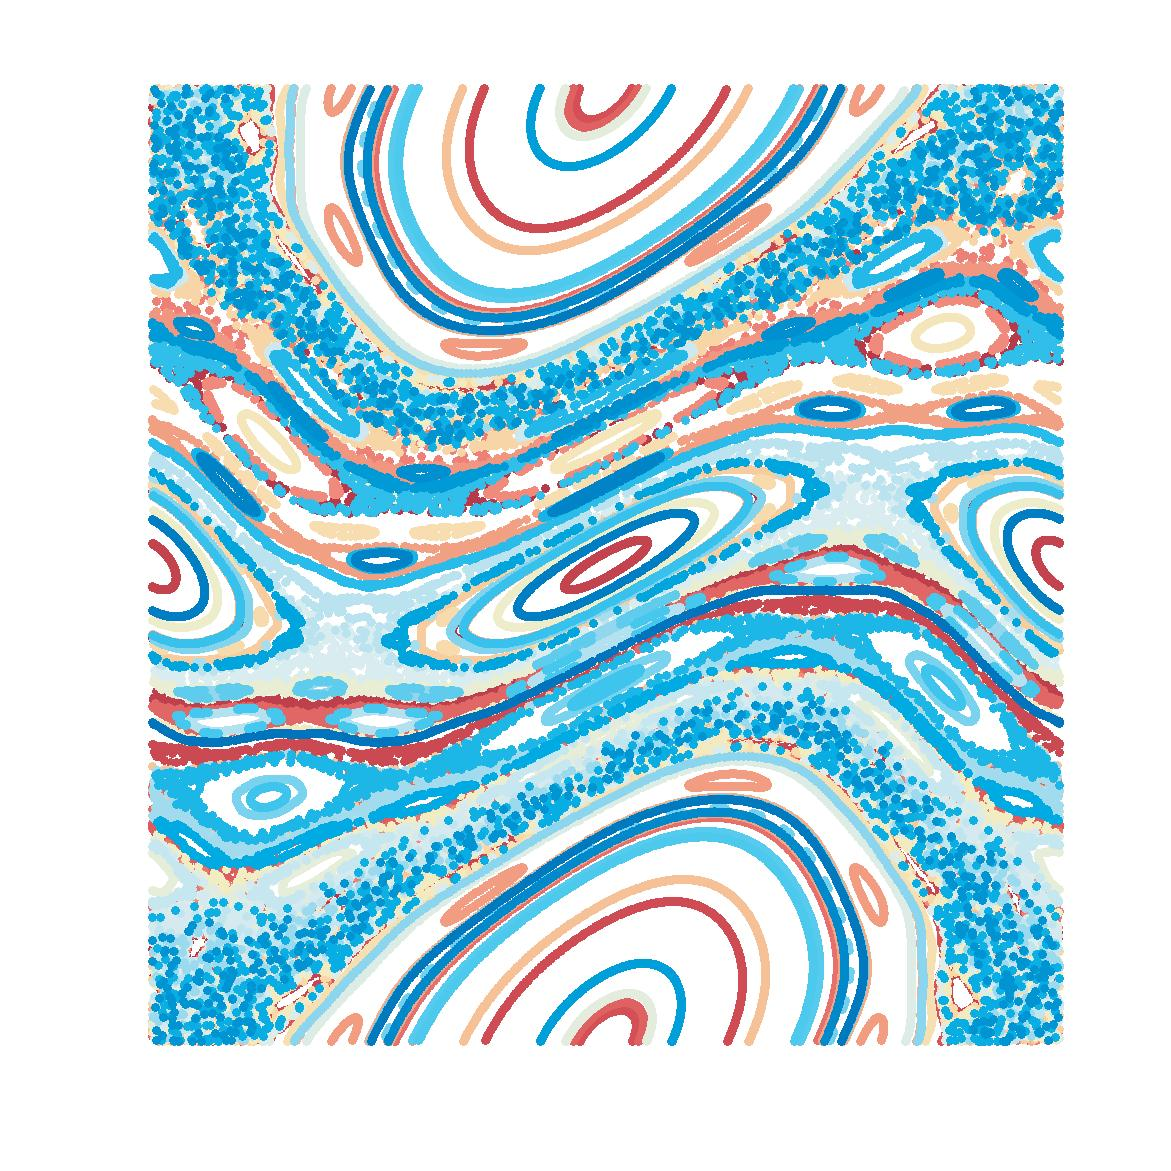
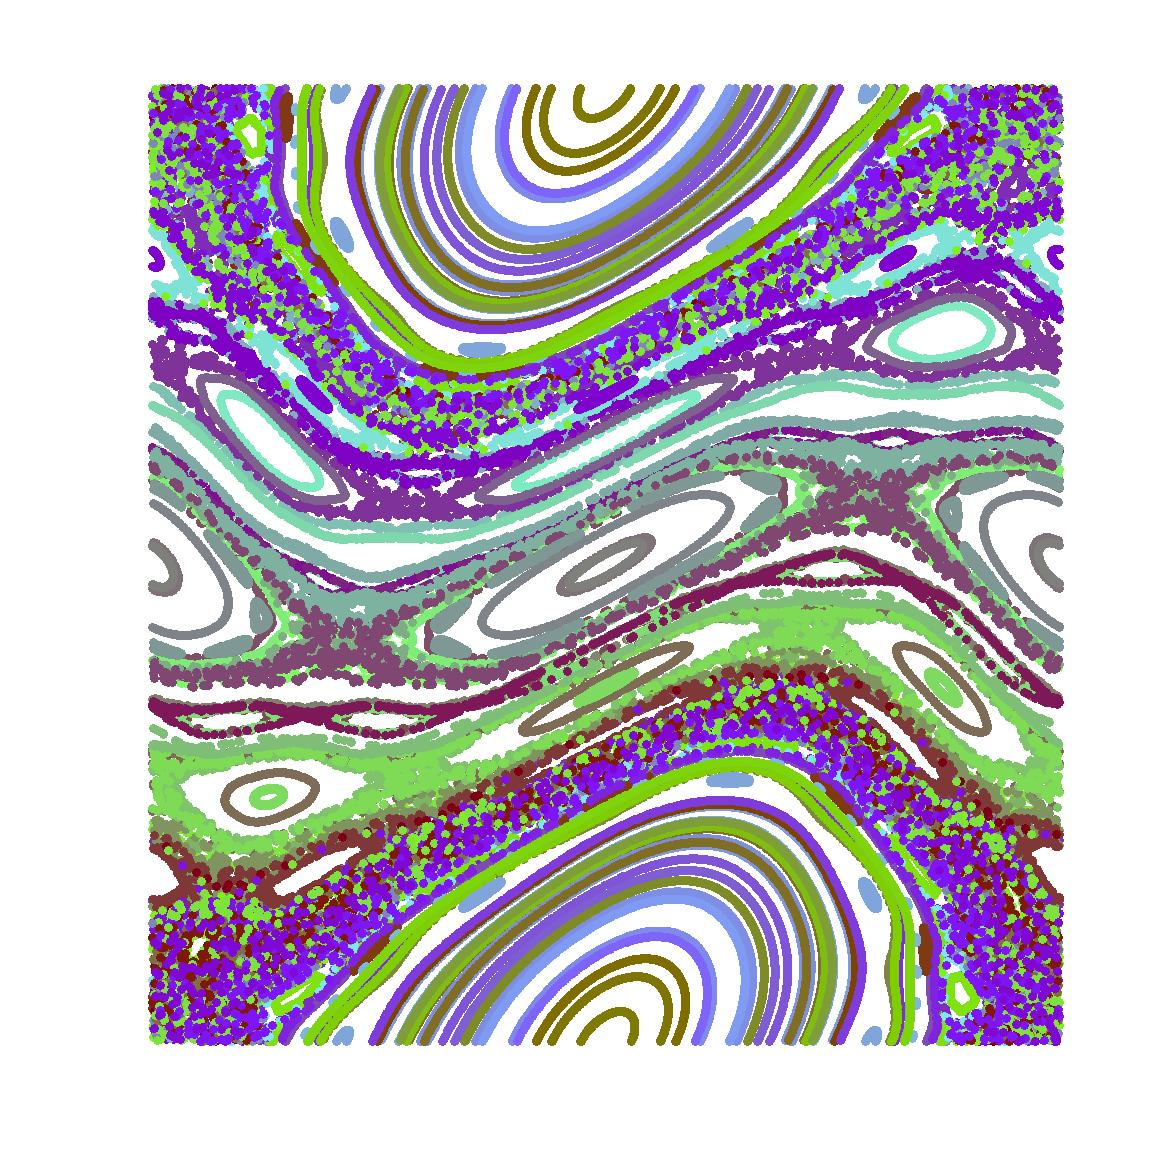
Colors now say something

diff --git a/Practica/Assignment 1/code/assignment_b_fancy_diff_k.m b/Practica/Assignment 1/code/assignment_b_fancy_diff_k.m
@@ -5,7 +5,7 @@ num_iter = 1000;
 
 ks = [0, 0.2, 0.4, 0.8, 1, 2, 3, 4];
 
-colors = lbmap(num_runs, 'RedBlue');
+% colors = lbmap(num_runs, 'RedBlue');
 
 for k = ks
     figure('name', sprintf('k = %d', k));
@@ -15,7 +15,7 @@ for k = ks
         p_0 = rand(1,1);
         
         map = chirikov_map(k, x_0, p_0, num_iter);
-        scatter(map(:, 1), map(:, 2), 5, 'filled', 'MarkerFaceColor', colors(run, :));
+        scatter(map(:, 1), map(:, 2), 5, 'filled', 'MarkerFaceColor', [0.5 x_0 p_0]);
     end
     hold off;
  
@@ -25,4 +25,17 @@ for k = ks
     close all;
 end
 
+
+%% Color map
+[x, p] = meshgrid(0:0.01:1, 0:0.01:1);
+
+color_g = x(:);
+color_b = p(:);
+color_r = repmat(0.5, length(color_g), 1);
+
+colors = [color_r, color_g, color_b];
+
+scatter(x(:), p(:), [], colors, 's', 'filled')
+
+high_quality_plot('Save', '../report/img/assignment_b_colormap', 'FontSize', 22, 'PaperWidth', 4, 'PaperHeight', 4, 'Margin', 0.05);
 

diff --git a/Practica/Assignment 1/code/high_quality_plot.m b/Practica/Assignment 1/code/high_quality_plot.m
@@ -62,5 +62,7 @@ function high_quality_plot( varargin )
     if ~strcmp(p.Results.Save, '')
 %         print(gcf, '-painters', '-dpdf', '-r300', p.Results.Save);
         print(gcf, '-painters', '-djpeg', '-r300', p.Results.Save);
+%         print(gcf, '-djpeg', '-r300', p.Results.Save);
+%         save(p.Results.Save);
     end
 end
